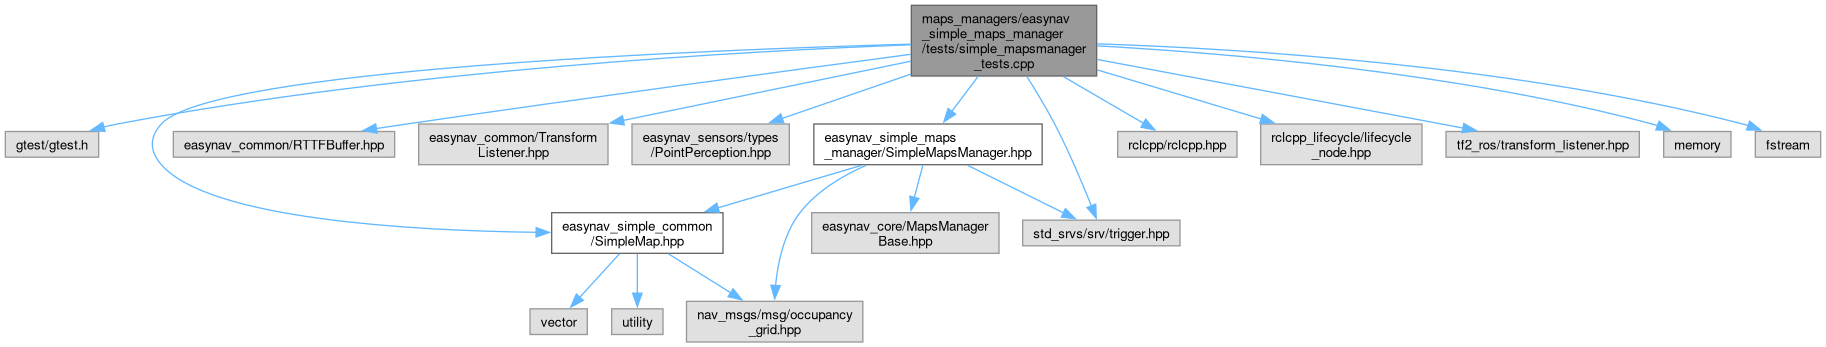
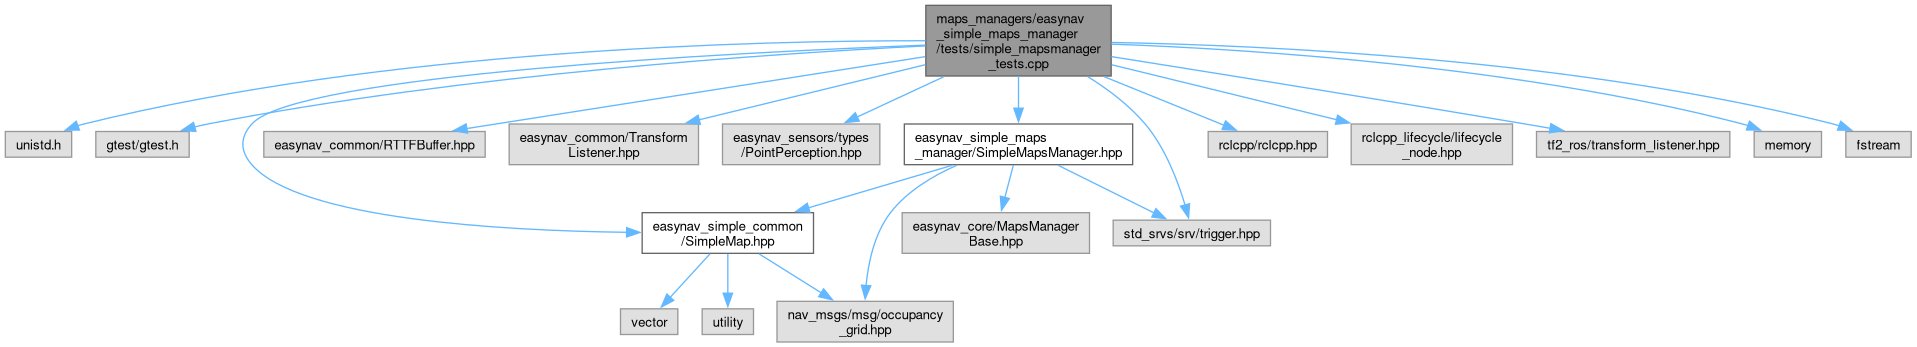
deploy: 703b73ae55bf6a419bf309b26084ca523b063ddf

diff --git a/simple__mapsmanager__tests_8cpp.html b/simple__mapsmanager__tests_8cpp.html
@@ -102,7 +102,8 @@ document.addEventListener('DOMContentLoaded', codefold.init);
   <div class="headertitle"><div class="title">simple_mapsmanager_tests.cpp File Reference</div></div>
 </div><!--header-->
 <div class="contents">
-<div class="textblock"><code>#include &lt;gtest/gtest.h&gt;</code><br />
+<div class="textblock"><code>#include &lt;unistd.h&gt;</code><br />
+<code>#include &lt;gtest/gtest.h&gt;</code><br />
 <code>#include &quot;<a class="el" href="SimpleMap_8hpp_source.html">easynav_simple_common/SimpleMap.hpp</a>&quot;</code><br />
 <code>#include &quot;easynav_common/RTTFBuffer.hpp&quot;</code><br />
 <code>#include &quot;easynav_common/TransformListener.hpp&quot;</code><br />
@@ -119,42 +120,44 @@ Include dependency graph for simple_mapsmanager_tests.cpp:</div>
 <div class="dyncontent">
 <div class="center"><img src="simple__mapsmanager__tests_8cpp__incl.png" border="0" usemap="#amaps__managers_2easynav__simple__maps__manager_2tests_2simple__mapsmanager__tests_8cpp" loading="lazy" alt=""/></div>
 <map name="amaps__managers_2easynav__simple__maps__manager_2tests_2simple__mapsmanager__tests_8cpp" id="amaps__managers_2easynav__simple__maps__manager_2tests_2simple__mapsmanager__tests_8cpp">
-<area shape="rect" title=" " alt="" coords="911,5,1097,76"/>
-<area shape="rect" title=" " alt="" coords="5,132,99,157"/>
-<area shape="poly" title=" " alt="" coords="911,47,759,55,561,69,340,92,118,127,104,130,103,124,117,121,339,87,561,64,759,49,911,42"/>
-<area shape="rect" href="SimpleMap_8hpp.html" title="Declaration of the SimpleMap type." alt="" coords="552,213,723,253"/>
-<area shape="poly" title=" " alt="" coords="911,47,713,54,477,68,366,79,271,92,200,108,177,117,163,126,157,135,155,144,157,153,163,163,187,181,223,196,268,207,320,216,432,226,536,230,536,235,431,231,319,221,267,212,222,201,185,186,159,166,152,155,150,144,152,133,159,122,174,112,198,103,270,87,365,74,476,63,713,49,911,41"/>
-<area shape="rect" title=" " alt="" coords="173,132,395,157"/>
-<area shape="poly" title=" " alt="" coords="911,57,407,127,377,131,376,126,406,121,910,52"/>
-<area shape="rect" title=" " alt="" coords="419,124,608,165"/>
-<area shape="poly" title=" " alt="" coords="912,64,624,123,622,118,911,59"/>
-<area shape="rect" title=" " alt="" coords="632,124,789,165"/>
-<area shape="poly" title=" " alt="" coords="912,77,783,121,781,116,910,72"/>
-<area shape="rect" href="SimpleMapsManager_8hpp.html" title="Declaration of the SimpleMapsManager method." alt="" coords="814,124,1042,165"/>
-<area shape="poly" title=" " alt="" coords="980,78,954,113,949,110,976,75"/>
-<area shape="rect" title=" " alt="" coords="1023,220,1180,246"/>
-<area shape="poly" title=" " alt="" coords="1029,75,1057,123,1094,205,1089,207,1052,125,1025,78"/>
-<area shape="rect" title=" " alt="" coords="1118,132,1237,157"/>
-<area shape="poly" title=" " alt="" coords="1065,74,1145,121,1142,126,1062,79"/>
-<area shape="rect" title=" " alt="" coords="1261,124,1422,165"/>
-<area shape="poly" title=" " alt="" coords="1098,67,1262,117,1261,122,1096,72"/>
-<area shape="rect" title=" " alt="" coords="1446,132,1639,157"/>
-<area shape="poly" title=" " alt="" coords="1098,57,1463,125,1462,131,1097,62"/>
-<area shape="rect" title=" " alt="" coords="1664,132,1731,157"/>
-<area shape="poly" title=" " alt="" coords="1097,43,1211,51,1350,66,1502,88,1653,121,1658,123,1657,128,1651,127,1501,94,1350,71,1210,56,1097,49"/>
-<area shape="rect" title=" " alt="" coords="1755,132,1821,157"/>
-<area shape="poly" title=" " alt="" coords="1097,41,1226,47,1388,61,1566,85,1656,101,1743,121,1749,123,1748,128,1742,127,1655,106,1566,90,1388,66,1226,53,1097,47"/>
-<area shape="rect" title=" " alt="" coords="530,309,587,334"/>
-<area shape="poly" title=" " alt="" coords="621,256,582,299,578,295,618,252"/>
-<area shape="rect" title=" " alt="" coords="612,309,663,334"/>
-<area shape="poly" title=" " alt="" coords="640,254,640,293,635,293,635,254"/>
-<area shape="rect" title=" " alt="" coords="686,301,863,342"/>
-<area shape="poly" title=" " alt="" coords="670,252,732,291,729,295,667,256"/>
-<area shape="poly" title=" " alt="" coords="862,168,718,210,717,205,861,163"/>
-<area shape="poly" title=" " alt="" coords="868,168,832,187,802,214,792,231,785,249,778,286,773,285,780,248,787,228,798,211,829,183,865,163"/>
-<area shape="poly" title=" " alt="" coords="969,163,1065,211,1063,215,966,168"/>
-<area shape="rect" title=" " alt="" coords="812,213,999,253"/>
-<area shape="poly" title=" " alt="" coords="925,166,917,198,912,197,920,165"/>
+<area shape="rect" title=" " alt="" coords="926,5,1111,76"/>
+<area shape="rect" title=" " alt="" coords="5,132,72,157"/>
+<area shape="poly" title=" " alt="" coords="925,43,765,46,554,57,438,68,319,82,200,102,84,127,78,128,77,123,83,121,199,96,318,77,437,62,554,52,765,41,925,38"/>
+<area shape="rect" title=" " alt="" coords="96,132,189,157"/>
+<area shape="poly" title=" " alt="" coords="925,49,786,57,606,72,407,94,208,127,195,130,194,124,207,121,407,89,606,66,785,52,925,43"/>
+<area shape="rect" href="SimpleMap_8hpp.html" title="Declaration of the SimpleMap type." alt="" coords="642,213,814,253"/>
+<area shape="poly" title=" " alt="" coords="926,48,745,56,533,72,434,82,349,95,286,109,266,117,254,126,248,135,246,144,248,153,254,163,278,181,314,196,359,207,411,216,522,226,627,230,627,235,522,231,410,221,358,212,312,201,275,186,250,166,243,155,240,144,243,133,250,122,263,113,285,104,348,89,433,77,532,66,744,51,925,42"/>
+<area shape="rect" title=" " alt="" coords="264,132,485,157"/>
+<area shape="poly" title=" " alt="" coords="926,59,467,131,466,126,925,54"/>
+<area shape="rect" title=" " alt="" coords="509,124,698,165"/>
+<area shape="poly" title=" " alt="" coords="926,67,700,122,698,117,925,62"/>
+<area shape="rect" title=" " alt="" coords="722,124,880,165"/>
+<area shape="poly" title=" " alt="" coords="945,79,858,119,856,115,943,74"/>
+<area shape="rect" href="SimpleMapsManager_8hpp.html" title="Declaration of the SimpleMapsManager method." alt="" coords="904,124,1133,165"/>
+<area shape="poly" title=" " alt="" coords="1021,76,1021,108,1016,108,1016,76"/>
+<area shape="rect" title=" " alt="" coords="1113,220,1270,246"/>
+<area shape="poly" title=" " alt="" coords="1089,74,1120,96,1147,122,1173,164,1188,204,1183,206,1168,166,1143,126,1116,100,1086,79"/>
+<area shape="rect" title=" " alt="" coords="1208,132,1328,157"/>
+<area shape="poly" title=" " alt="" coords="1105,74,1225,123,1223,128,1103,79"/>
+<area shape="rect" title=" " alt="" coords="1351,124,1512,165"/>
+<area shape="poly" title=" " alt="" coords="1112,62,1338,117,1336,122,1111,67"/>
+<area shape="rect" title=" " alt="" coords="1536,132,1730,157"/>
+<area shape="poly" title=" " alt="" coords="1112,54,1526,121,1551,126,1550,131,1525,127,1111,59"/>
+<area shape="rect" title=" " alt="" coords="1754,132,1822,157"/>
+<area shape="poly" title=" " alt="" coords="1112,41,1238,48,1396,62,1570,85,1658,102,1743,121,1749,123,1747,128,1742,127,1657,107,1570,91,1396,67,1237,53,1111,47"/>
+<area shape="rect" title=" " alt="" coords="1846,132,1911,157"/>
+<area shape="poly" title=" " alt="" coords="1112,40,1253,45,1434,57,1635,82,1736,99,1834,121,1840,123,1839,128,1833,127,1735,105,1634,87,1434,63,1253,50,1112,45"/>
+<area shape="rect" title=" " alt="" coords="620,309,678,334"/>
+<area shape="poly" title=" " alt="" coords="712,256,672,299,668,295,708,252"/>
+<area shape="rect" title=" " alt="" coords="702,309,754,334"/>
+<area shape="poly" title=" " alt="" coords="730,254,730,293,725,293,725,254"/>
+<area shape="rect" title=" " alt="" coords="777,301,953,342"/>
+<area shape="poly" title=" " alt="" coords="760,252,823,291,820,295,758,256"/>
+<area shape="poly" title=" " alt="" coords="953,168,809,210,807,205,951,163"/>
+<area shape="poly" title=" " alt="" coords="958,168,923,187,893,214,883,231,876,249,869,286,863,285,871,248,878,228,888,211,919,183,956,163"/>
+<area shape="poly" title=" " alt="" coords="1059,163,1155,211,1153,215,1057,168"/>
+<area shape="rect" title=" " alt="" coords="902,213,1090,253"/>
+<area shape="poly" title=" " alt="" coords="1016,166,1007,198,1002,197,1011,165"/>
 </map>
 </div>
 </div><table class="memberdecls">
